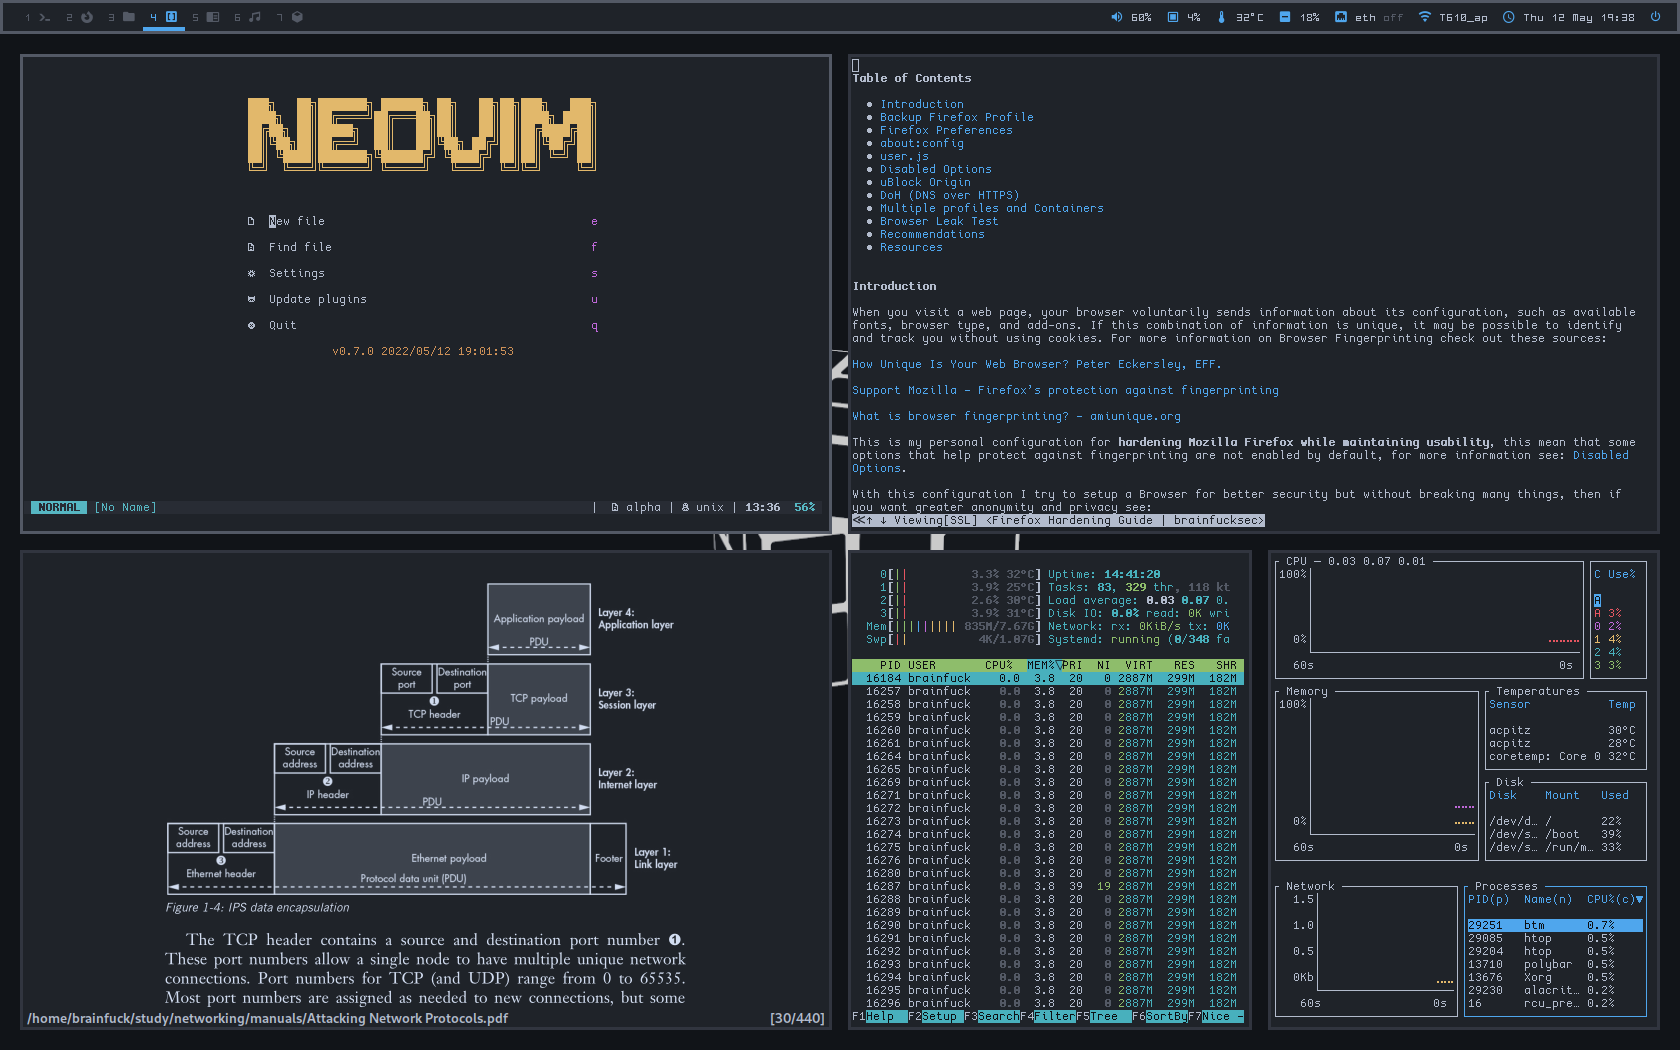
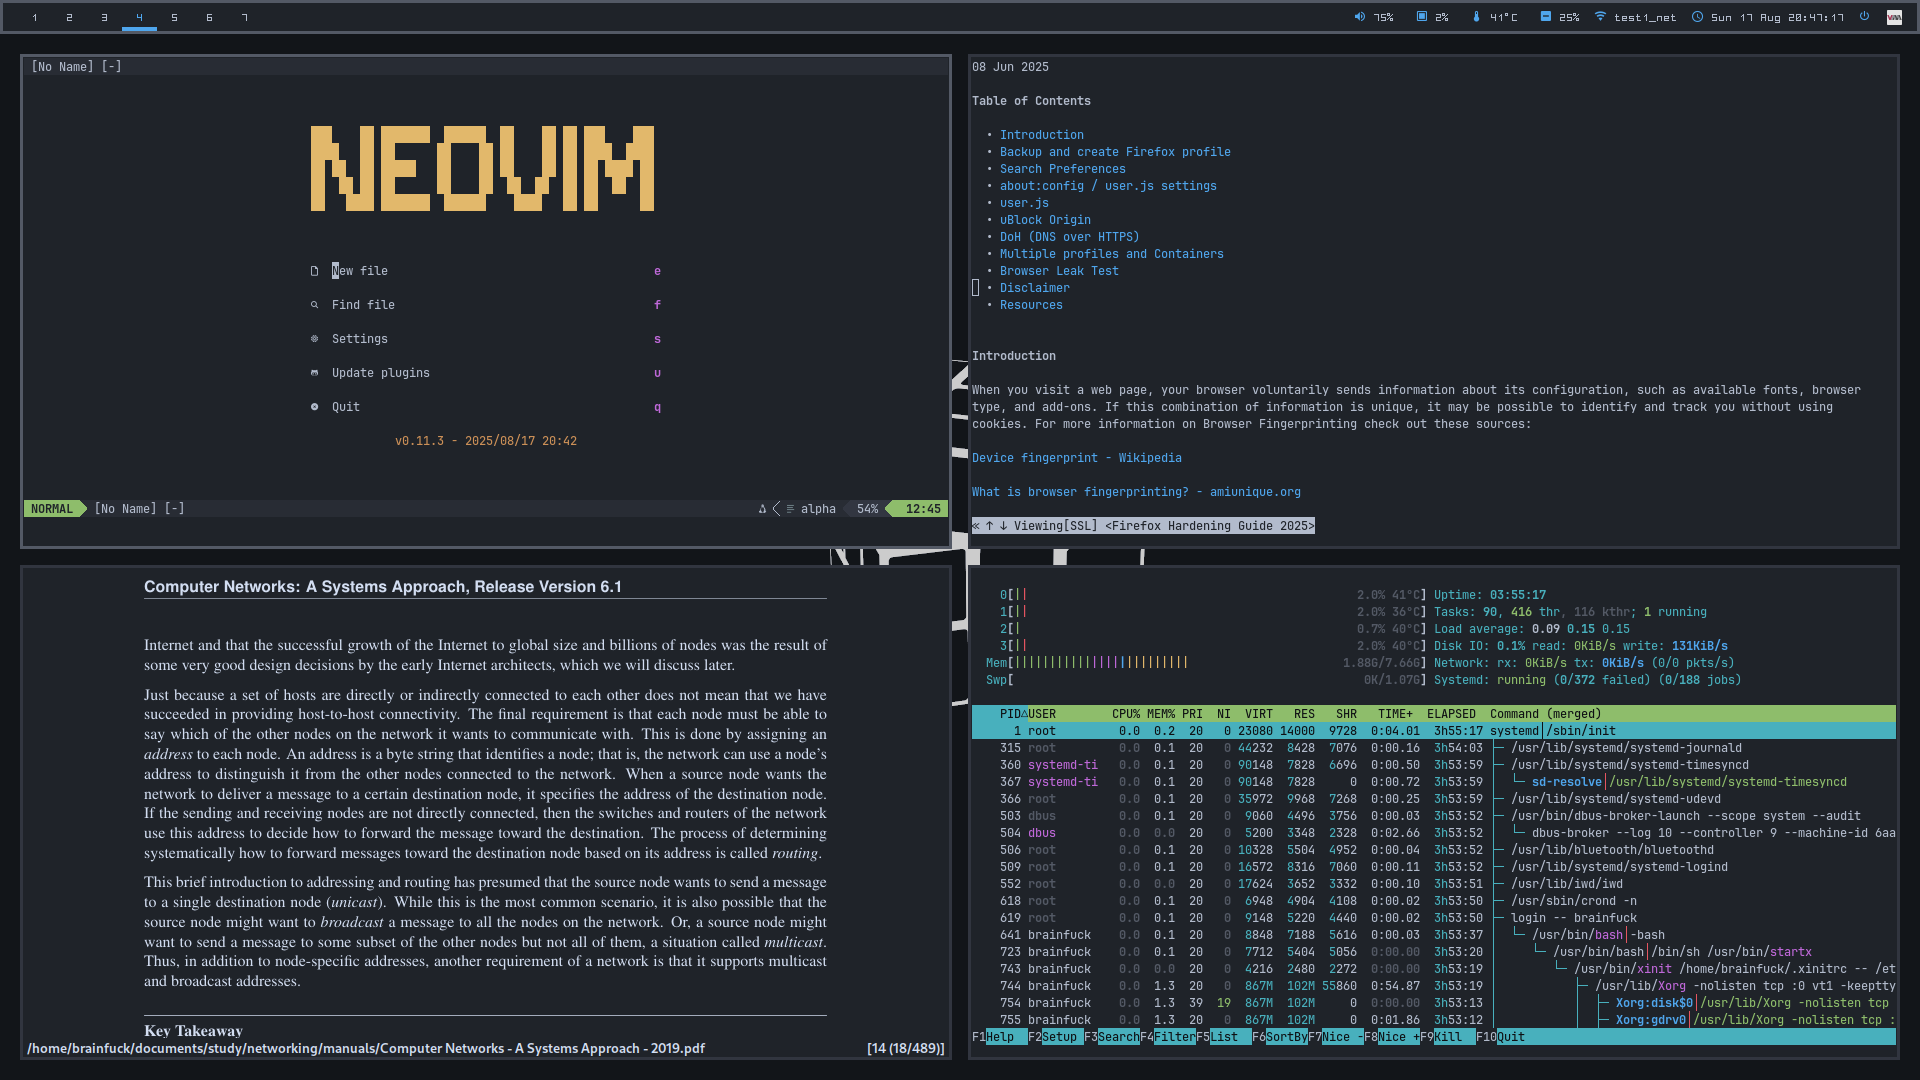
Update README --> Update screenshots

diff --git a/README.md b/README.md
@@ -24,7 +24,7 @@ Browser | firefox, w3m
 RSS Reader | newsboat
 Process Viewer | htop, bottom
 Notification Daemon | dunst
-Fonts | Terminal: [Cozette](https://github.com/slavfox/Cozette), Bar: [ohsnap](https://aur.archlinux.org/packages/ohsnap-otb/)
+Fonts | Terminal: [JetBrainsMono Nerd Font](https://www.programmingfonts.org/#jetbrainsmono), Bar: [Ohsnap (ohsnapmod-otb)](https://codeberg.org/h3xx/ohsnapmod)
 Color Scheme | [OneDark](.Xresources) from [OneDark.nvim](https://github.com/navarasu/onedark.nvim)
 
 ### Screenshots
